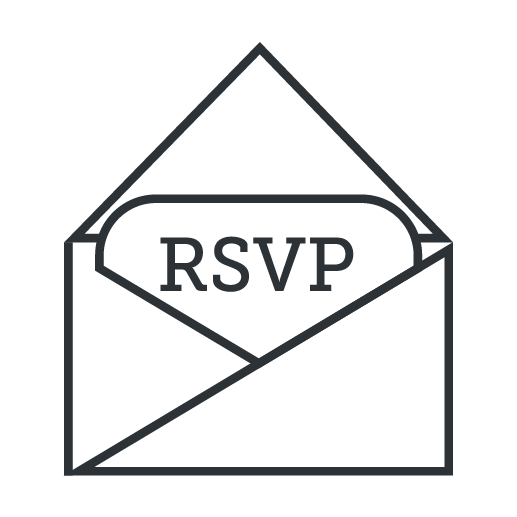
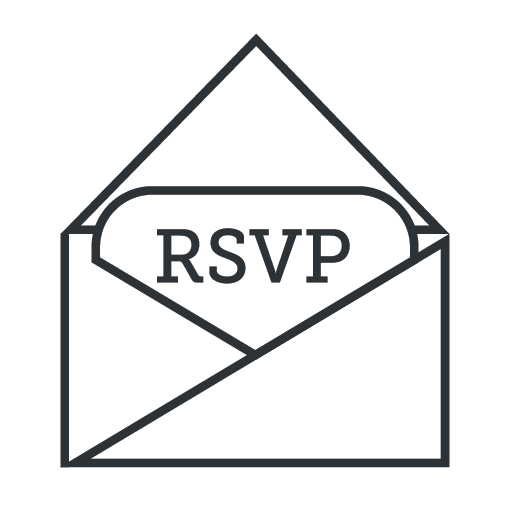
we ready

Changed region(s): [[0.1179, 0.0589, 0.8841, 0.943]]

diff --git a/index.html b/index.html
@@ -10,7 +10,7 @@
 
   <link rel="stylesheet" type="text/css" href="newcss/compiled/2015.css">
   <link href='http://fonts.googleapis.com/css?family=Montserrat' rel='stylesheet' type='text/css'>
-  <link href='http://fonts.googleapis.com/css?family=Lato:300,300italic,400' rel='stylesheet' type='text/css'>
+  <link href='http://fonts.googleapis.com/css?family=Lato:300,300italic,400,700' rel='stylesheet' type='text/css'>
   <script src="node_modules/babel-core/browser.js"></script>
   <script src="https://ajax.googleapis.com/ajax/libs/jquery/2.1.4/jquery.min.js"></script>
 </head>
@@ -56,7 +56,7 @@
             <div class="line-horizontal"></div>
           </div>
           <div class="title">
-            <span class="letterspace">submission</span><span>s</span>
+            <span class="letterspace">competitio</span><span>n</span>
           </div>
         </div>
       </div>
@@ -91,7 +91,7 @@
       <div class='content-card'>
         <h2>Should I attend?</h2>
         <p>Yes! We welcome designers of all skill levels!
-        CMYK will be hosting workshops led by designers during the event.
+        We'll be hosting workshops led by designers during the event.
         We've allocated time to mingle and form groups with designers of
         varying skill levels. All you need are ideas, pen and paper,
         and maybe some illustrator skills!
@@ -104,6 +104,15 @@
         and design under the guidance of peers and professionals!
         We'll be providing exciting design prompts to get you going,
         and an expert panel of judges and mentors to help you along the way.</p>
+      </div>
+      <div class="content-card">
+        <h2>What should I bring?</h2>
+        <p>Make sure to have relevant software downloaded prior to the event
+        (i.e. Illustrator, Photoshop, Lightroom, etc)! UC Berkeley students can get
+        Adobe CC products for free <a href="https://software.berkeley.edu/adobe">here.</a></p>
+        <p>If you're planning on forming a team beforehand, remember that
+        teams should be 3 or 4 members in size. If you don't have a team, don't worry!
+        We'll be doing a team formation activity for everyone.</p>
       </div>
       <div class="content-card">
         <h2>Who's going to be there?</h2>
@@ -173,29 +182,68 @@
     <div class="content-card">
       <div class="schedule-item">
         <div class="schedule-time">
-          9:00 AM
+          8:30 AM
         </div>
         <div class="schedule-desc">
           <div class="schedule-desc-header">
-            Arrive / Check-In
+            Doors Open
           </div>
           <div class="schedule-desc-body">
-            Some text that comes below the title and shit. Yay subtext, please
-            tell me what to write here someone.
+            Good morning! We'll be having a coffee mixer and a team formation activity.
           </div>
         </div>
       </div>
       <div class="schedule-item">
         <div class="schedule-time">
-          12:00 PM
+          9:30 AM
         </div>
         <div class="schedule-desc">
           <div class="schedule-desc-header">
-            Lunch / Workshops
+            Keynote &amp; Speakers
           </div>
           <div class="schedule-desc-body">
-            Some text that comes below the title and shit. Yay subtext, please
-            tell me what to write here someone.
+            We'll kick off the event with a series of talks from industry professionals,
+            who will share their own stories about design.
+          </div>
+        </div>
+      </div>
+      <div class="schedule-item">
+        <div class="schedule-time">
+          11:00 AM
+        </div>
+        <div class="schedule-desc">
+          <div class="schedule-desc-header">
+            Competition kickoff
+          </div>
+          <div class="schedule-desc-body">
+            The Big Reveal: client request &amp; designathon prompt
+          </div>
+        </div>
+      </div>
+      <div class="schedule-item">
+        <div class="schedule-time">
+          12:30 PM
+        </div>
+        <div class="schedule-desc">
+          <div class="schedule-desc-header">
+            Lunch
+          </div>
+          <div class="schedule-desc-body">
+            nomnoms catered by Gypsy's
+          </div>
+        </div>
+      </div>
+      <div class="schedule-item">
+        <div class="schedule-time">
+          1:30 PM
+        </div>
+        <div class="schedule-desc">
+          <div class="schedule-desc-header">
+            Workshops + Feedback sessions
+          </div>
+          <div class="schedule-desc-body">
+            Workshops on lettering, studio photography, branding - a full
+            schedule of workshops will be posted later!
           </div>
         </div>
       </div>
@@ -205,25 +253,23 @@
         </div>
         <div class="schedule-desc">
           <div class="schedule-desc-header">
-            Judging
+            Presentations
           </div>
           <div class="schedule-desc-body">
-            Some text that comes below the title and shit. Yay subtext, please
-            tell me what to write here someone.
+            Give a 90-second pitch of your campaign
           </div>
         </div>
       </div>
       <div class="schedule-item">
         <div class="schedule-time">
-          5:00 PM
+          5:15 PM
         </div>
         <div class="schedule-desc">
           <div class="schedule-desc-header">
-            Designathon ends
+            Awards Ceremony
           </div>
           <div class="schedule-desc-body">
-            Some text that comes below the title and shit. Yay subtext, please
-            tell me what to write here someone.
+            Give yourself a pat on the back, you made it!
           </div>
         </div>
       </div>
@@ -258,17 +304,17 @@
           <a href='http://cmyk2015.eventbrite.com'>Eventbrite!</a>
         </div>
       </div>
-      <p>  Excited to see you there!
-      </p>
+      <p>Excited to see you there!</p>
     </div>
   </div>
   <div id="submissions" class='content-section'>
     <div class="slant"></div>
     <div class='content-header'>
-      <h1>S U B M I S S I O N S</h1>
+      <h1>C O M P E T I T I O N</h1>
     </div>
     <div class='content-card'>
-      After the event starts, you'll be able to submit your designs as a team here!
+      After the event starts, the design prompt will appear here, and
+      you'll be able to submit your designs as a team!
     </div>
   </div>
 

diff --git a/newcss/compiled/2015.css b/newcss/compiled/2015.css
@@ -268,6 +268,8 @@ body {
       color: #444; }
       body.registration #registration .content-header {
         color: #444; }
+      body.registration #registration .registration-item .registration-icon img {
+        opacity: 1; }
   body.submissions {
     background-color: #2d3236; }
     body.submissions #sun-spacer #sun-section {
@@ -496,14 +498,17 @@ body {
   text-align: center; }
   #registration a {
     text-decoration: none;
-    color: #2d3236; }
+    color: #2d3236;
+    font-weight: 700; }
   #registration .registration-item {
     width: 100%; }
     #registration .registration-item .registration-icon img {
       width: 100px;
       height: 100px;
       margin-bottom: 15px;
-      margin-top: 35px; }
+      margin-top: 35px;
+      opacity: 0;
+      transition: opacity 0.6s ease; }
 
 #submissions {
   color: white;

diff --git a/newcss/2015.scss b/newcss/2015.scss
@@ -90,6 +90,12 @@ body {
       .content-header {
         color: #444;
       }
+
+      .registration-item {
+        .registration-icon img {
+          opacity: 1;
+        }
+      }
     }
   }
   &.submissions {
@@ -374,6 +380,7 @@ body {
   a {
     text-decoration: none;
     color: $k;
+    font-weight: 700;
   }
 
   .registration-item {
@@ -389,6 +396,9 @@ body {
 
       margin-bottom: 15px;
       margin-top: 35px;
+
+      opacity: 0;
+      transition: opacity $transition-fast;
     }
   }
 }
